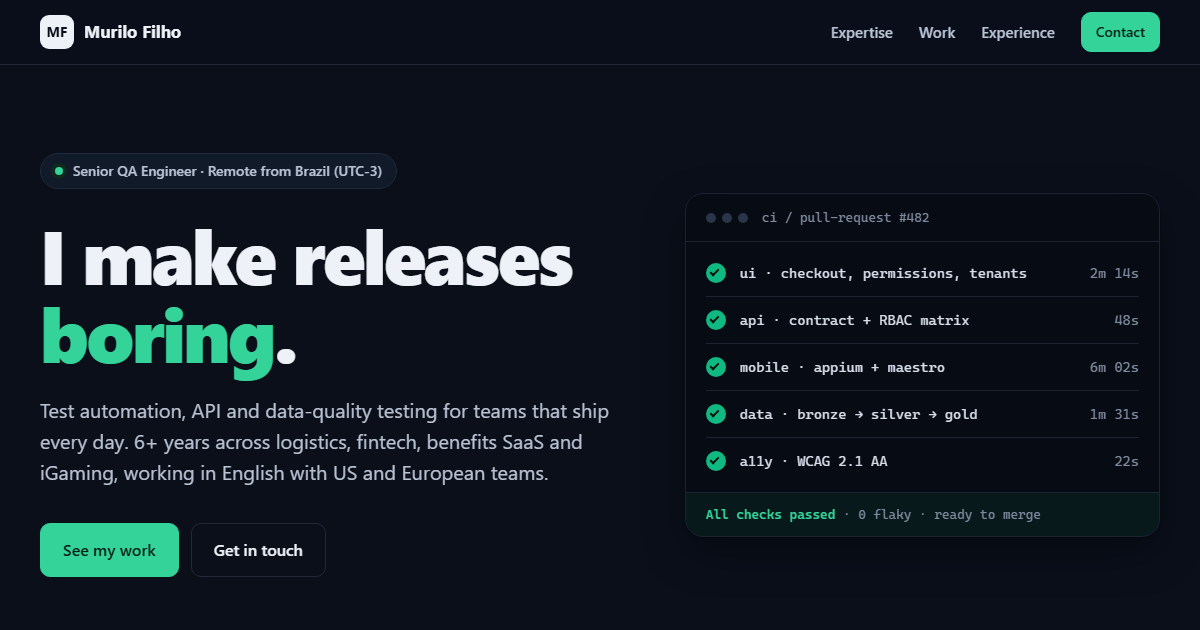
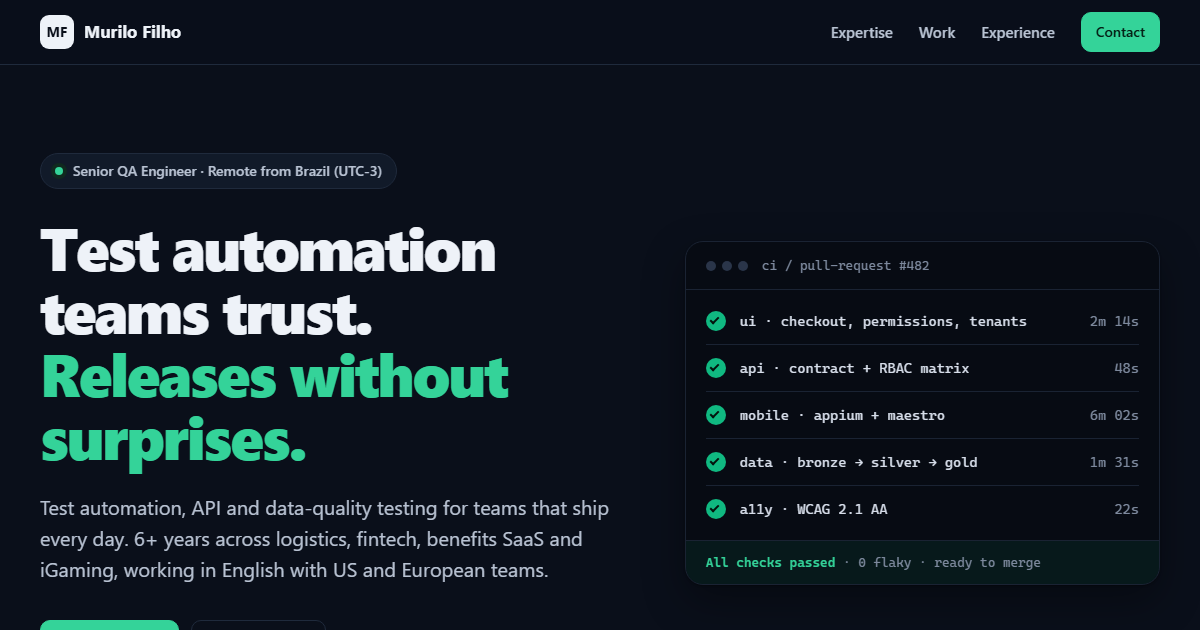
New headline: test automation teams trust, releases without surprises
Smaller h1 so the longer headline fits in four lines, refreshed preview image.

diff --git a/index.html b/index.html
@@ -41,8 +41,8 @@
     <section class="hero" id="top">
       <div class="wrap hero-grid">
         <div>
-          <p class="eyebrow"><span class="dot" aria-hidden="true"></span> Senior QA Engineer · Remote from Brazil (UTC-3)</p>
-          <h1>I make releases <em>boring</em>.</h1>
+          <p class="eyebrow"><span class="dot" aria-hidden="true"></span> Senior QA Engineer · Remote from Brazil&nbsp;(UTC-3)</p>
+          <h1>Test automation teams trust. <em>Releases without surprises.</em></h1>
           <p class="lead">Test automation, API and data-quality testing for teams that ship every day. 6+ years across logistics, fintech, benefits SaaS and iGaming, working in English with US and European teams.</p>
           <div class="cta">
             <a class="btn" href="#work">See my work</a>

diff --git a/assets/style.css b/assets/style.css
@@ -103,7 +103,7 @@ img { max-width: 100%; }
 .dot { width: 8px; height: 8px; border-radius: 50%; background: var(--accent); box-shadow: 0 0 0 4px var(--accent-soft); }
 h1 {
   margin-top: 26px;
-  font-size: clamp(44px, 6.4vw, 76px); line-height: 1.02; letter-spacing: -.035em; font-weight: 800;
+  font-size: clamp(38px, 5vw, 60px); line-height: 1.05; letter-spacing: -.035em; font-weight: 800;
 }
 h1 em { font-style: normal; color: var(--accent); }
 .lead { margin-top: 24px; font-size: 20px; line-height: 1.55; color: var(--ink-2); max-width: 34em; }
